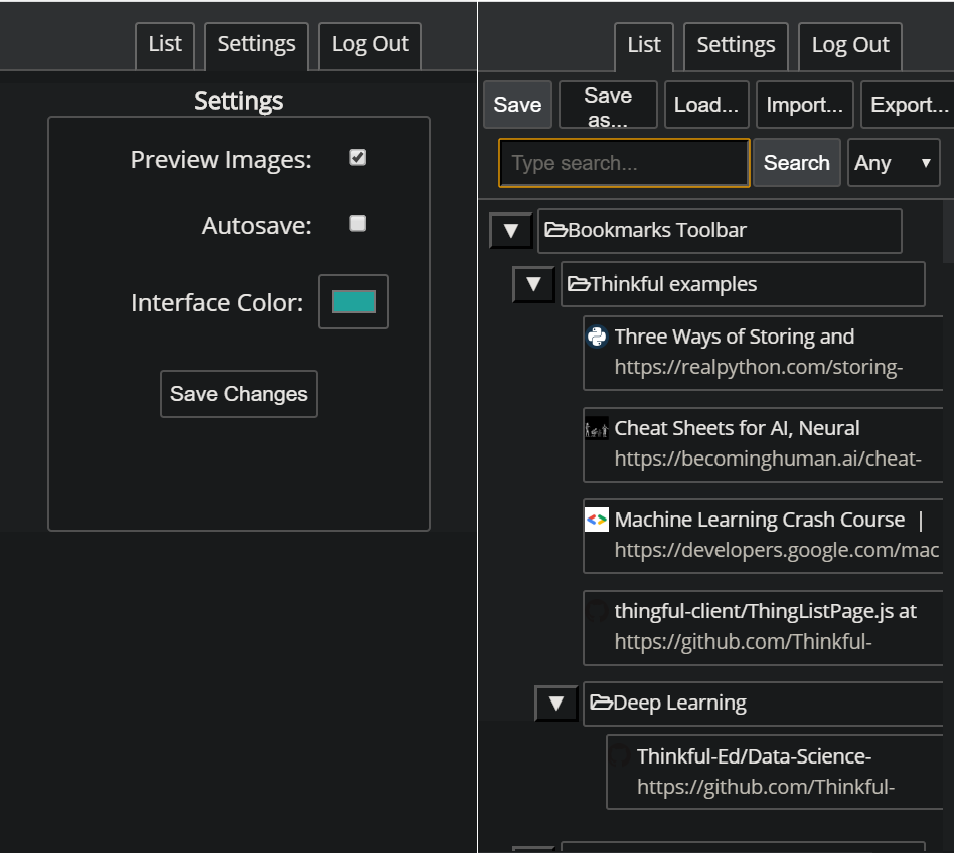
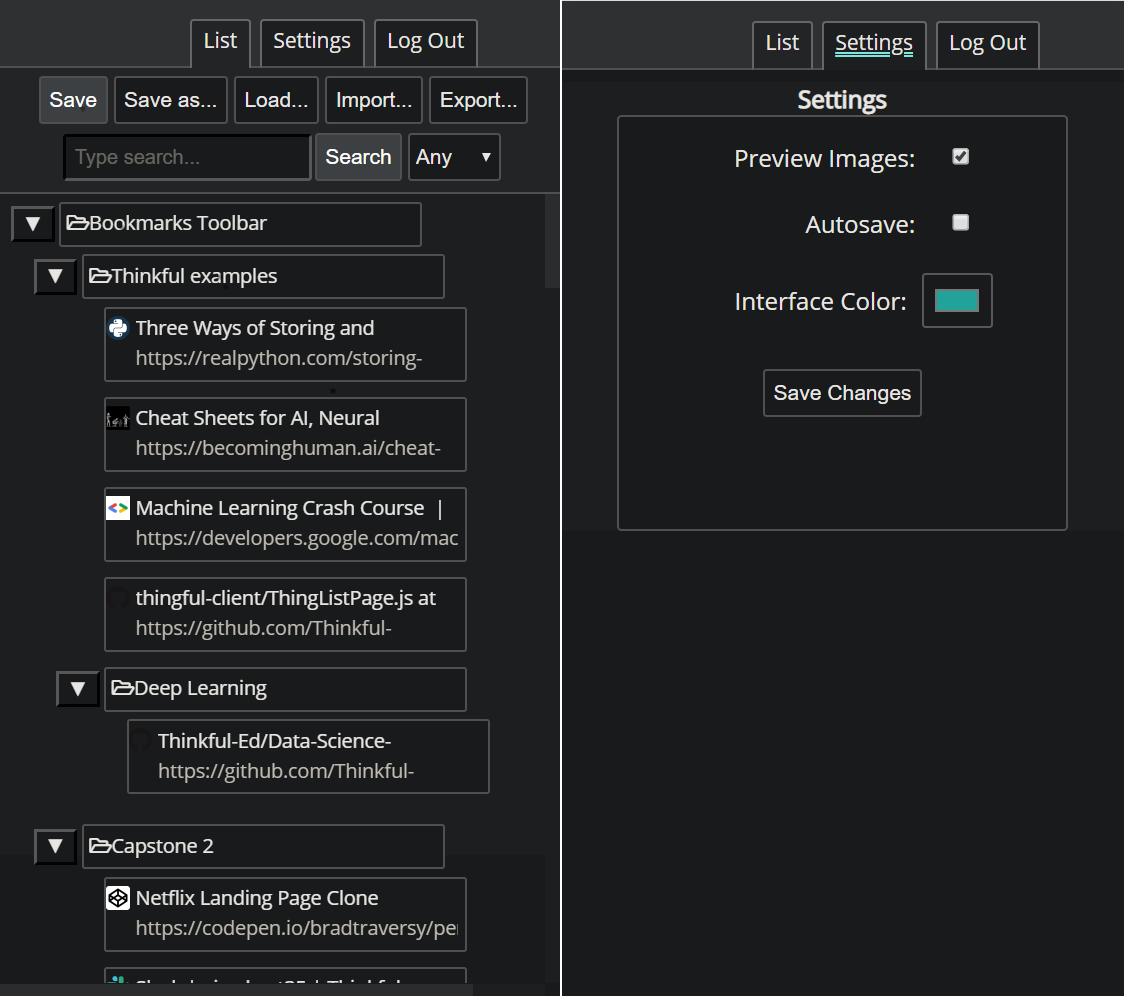
resolution adjustments

diff --git a/README.md b/README.md
@@ -30,7 +30,7 @@
 <img src='./src/img/Desktop_List.png' alt='Desktop List View' width='900px'/>
 
 ### Mobile Settings, Mobile List View
-<img src='./src/img/Mobile_List_Settings.png' alt='Mobile Settings and Mobile List View' width='900'/>
+<img src='./src/img/Mobile_List_Settings.png' alt='Mobile Settings and Mobile List View' width='600'/>
 
 ## Tech Specs: 
 **Front-end:**
